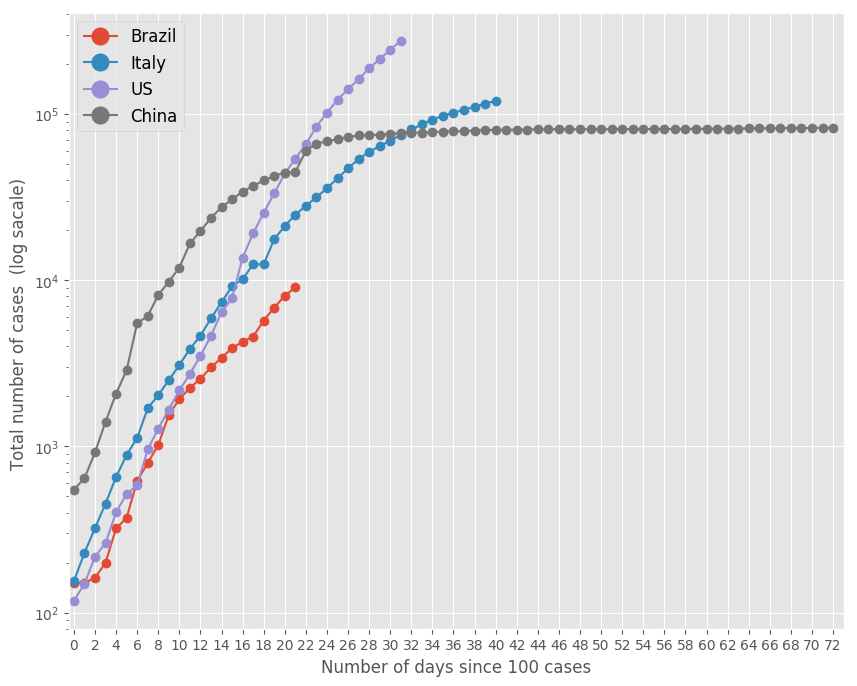
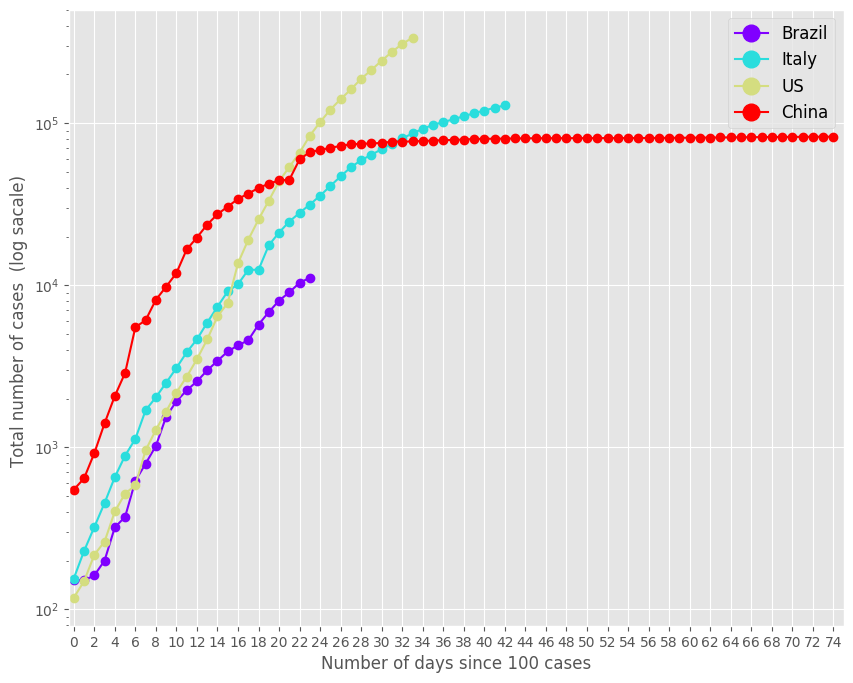
new chart palette

diff --git a/database.py b/database.py
@@ -1,5 +1,6 @@
 import numpy as np
 import matplotlib.pyplot as plt
+from matplotlib.pyplot import cm
 import COVID19Py
 import schedule
 import os
@@ -166,7 +167,7 @@ class Chart:
     
     def __init__(self, Locations_indx, period=None, WORLD=False, COMPARATIVE=False, TRAJECTORY=False, EXP=False):
         """ Metodos que verifica o tipo de grafico que será feito e chama a metodo que vai criar tipo de grafico escolhido """
-
+        
         # cria um novo dicionarion, que será utilizado organizar os dados que serão plotados
         self.data = {}
         for location in Locations_indx:
@@ -175,6 +176,7 @@ class Chart:
         #lista dos dias, fica separada do dicionario dos dados, para facilitar na hora de pegas as 'keys' desse dicionario
         self.dias = np.array([dia[5:10] for dia in timeline])
 
+        self.colors = cm.rainbow(np.linspace(0,1,len(self.data.values())))
         #configura o grafico q será salvo
         plt.style.use('ggplot')
         self.fig = plt.figure(num=1, figsize = (10., 8.))
@@ -255,14 +257,14 @@ class Chart:
             N = sum( self.data[country] > 100 )
             if N > 0:
                 country_index = list(self.data.keys()).index(country)
-                self.ax.plot( np.arange(N), self.data[country][-N:], 'o-', label = location[country_index]['country'])
+                self.ax.plot( np.arange(N), self.data[country][-N:], 'o-', label = location[country_index]['country'],  c=self.colors[country_index])
                 m = max(m,N)
             
 
             plt.yscale("log")
             plt.xlabel("Number of days since 100 cases")
             plt.ylabel("Total number of cases  (log sacale) ")
-            plt.legend(fontsize='large',markerscale=2)
+            plt.legend(fontsize='large',markerscale=1)
             
         plt.xticks(np.arange(0,m,2))
         plt.xlim(-0.5,m)
@@ -271,26 +273,27 @@ class Chart:
         
         for country in self.data:
             N = sum( self.data[country] > 100 )
-            D = self.data[country][-N:]
-            
-            P_DAYS = 4
-            N_DAYS = N
-            
-            DAYS_RANGE = N_DAYS - (N_DAYS%P_DAYS)
-            
-            D = self.data[country][-DAYS_RANGE:]
+            if N>0:
+                D = self.data[country][-N:]
+                
+                P_DAYS = 4
+                N_DAYS = N
+                
+                DAYS_RANGE = N_DAYS - (N_DAYS%P_DAYS)
+                
+                D = self.data[country][-DAYS_RANGE:]
 
-            Y = np.array([D[i] - D[i-P_DAYS] for i in np.arange(P_DAYS, DAYS_RANGE, P_DAYS)])
-            X = D[ np.arange(P_DAYS, DAYS_RANGE, P_DAYS) ]
-            N = X[-1]
+                Y = np.array([D[i] - D[i-P_DAYS] for i in np.arange(P_DAYS, DAYS_RANGE, P_DAYS)])
+                X = D[ np.arange(P_DAYS, DAYS_RANGE, P_DAYS) ]
+                N = X[-1]
 
-            country_index = list(self.data.keys()).index(country)
-            self.ax.plot(X,Y, '--',c='black', alpha=0.5, ms=5.0)
-            self.ax.plot(X[-1], Y[-1], 'o-' , ms=5.0, label = location[country_index]['country'])
+                country_index = list(self.data.keys()).index(country)
+                self.ax.plot(X,Y, '--',c='black', alpha=0.5, ms=5.0)
+                self.ax.plot(X[-1], Y[-1], 'o-' , ms=10.0, label = location[country_index]['country'], c=self.colors[country_index] )
         
         plt.xlabel('Total number of cases')
         plt.ylabel(f'Number of cases in the last {P_DAYS} days')
-        plt.legend(fontsize='large',markerscale=2)
+        plt.legend(fontsize='large',markerscale=1)
         plt.yscale("log")
         plt.xscale("log")
  

diff --git a/covid19bot.py b/covid19bot.py
@@ -21,6 +21,7 @@ from database import Database, Chart, subs_db
 import schedule
 
 token = os.getenv("COV19BOT_TOKEN")
+
 bot = telepot.Bot(token)
 
 SUBS = subs_db()
